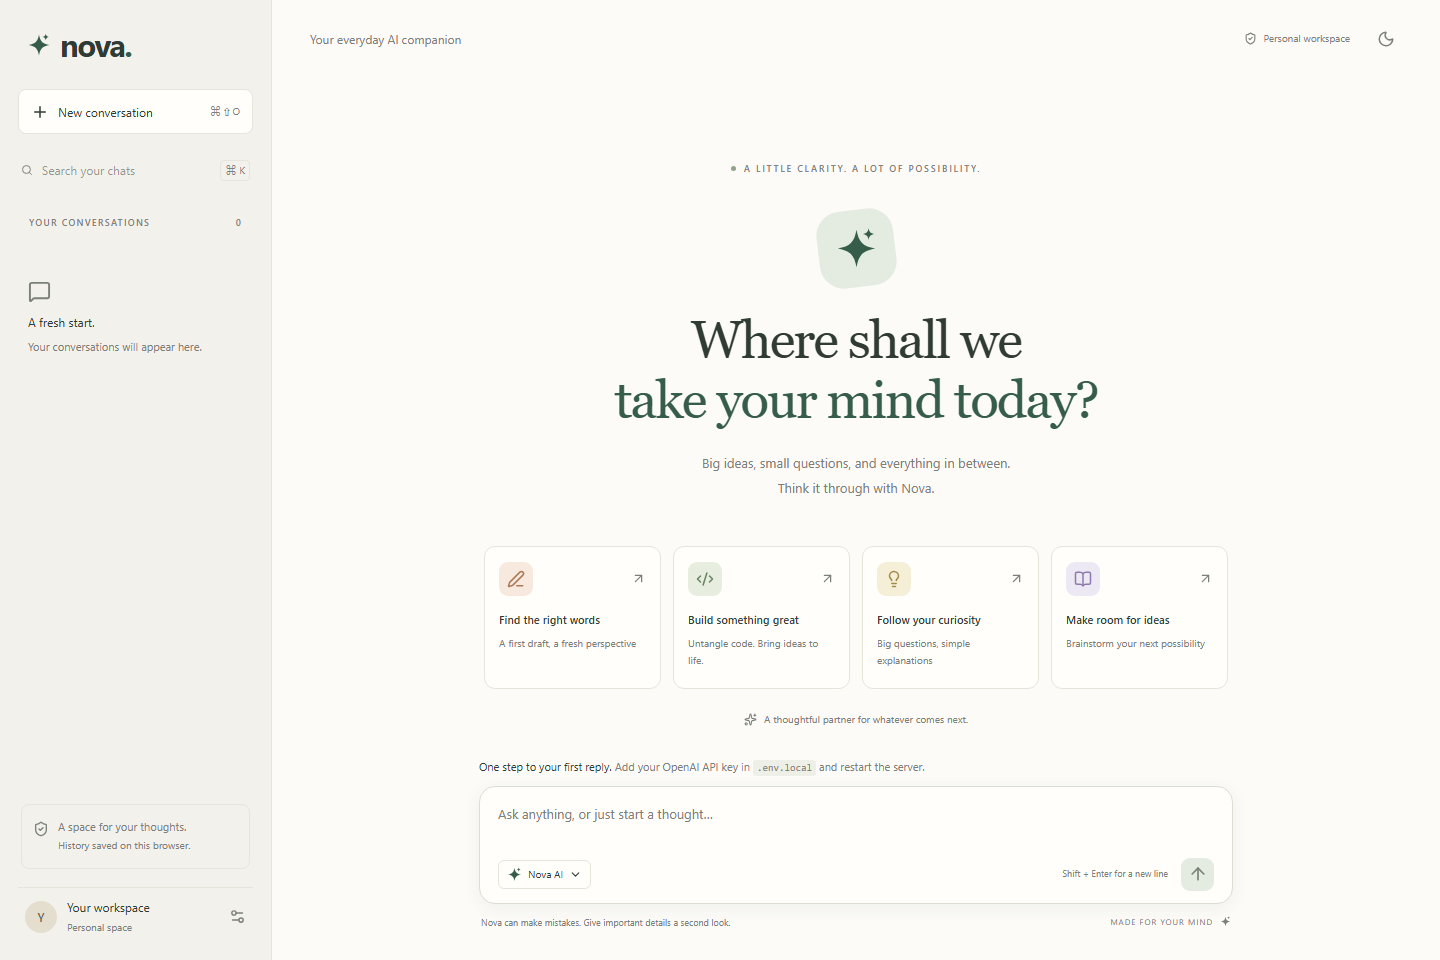
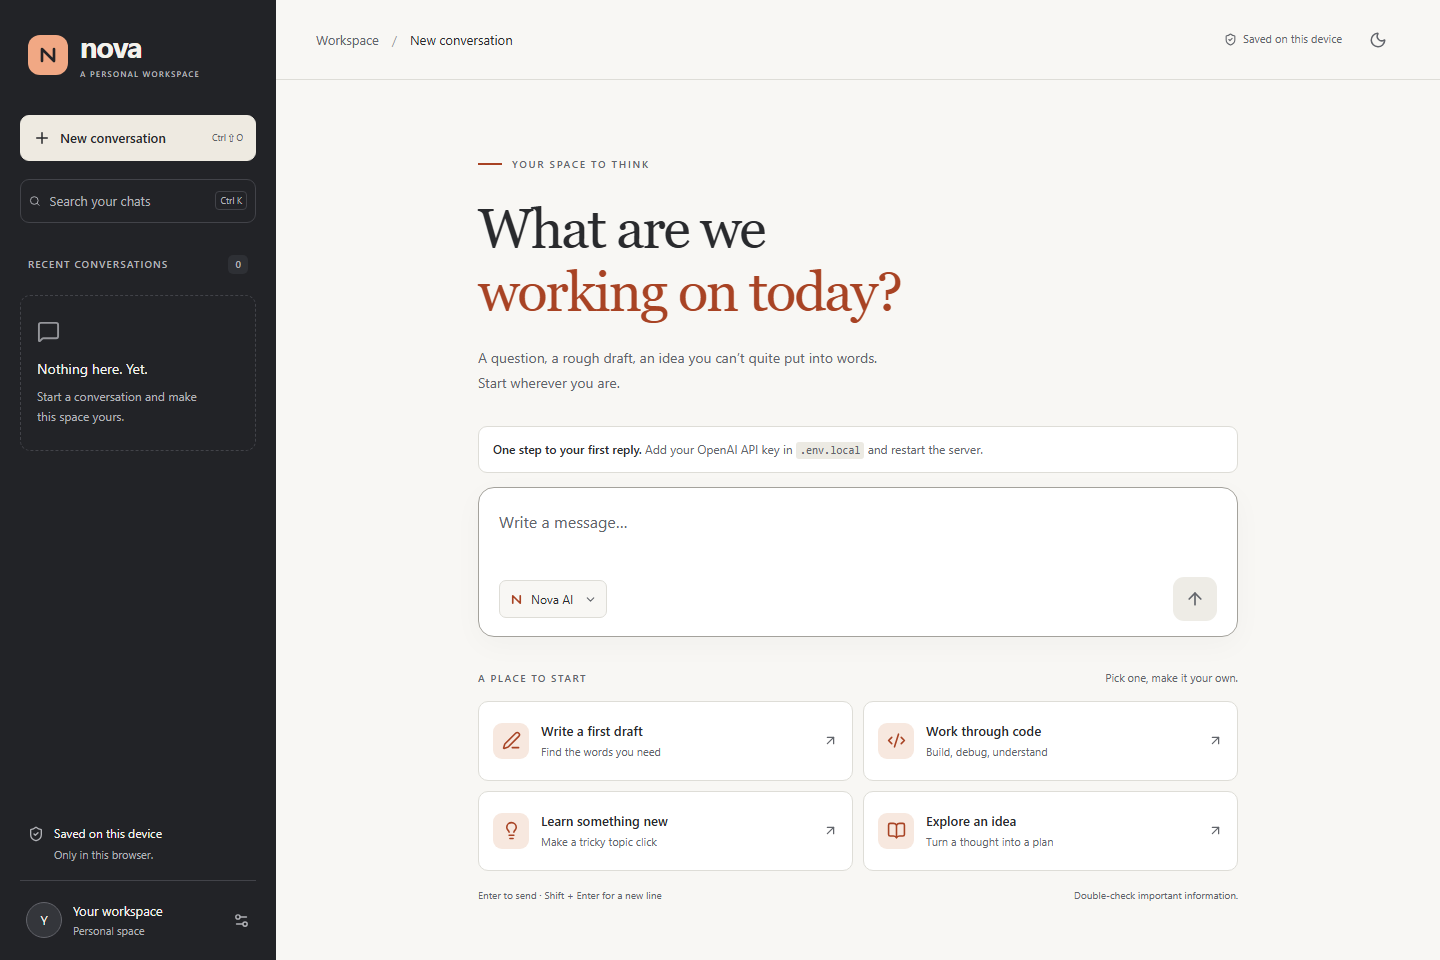
Update files in readme with redesigned previews

diff --git a/README.md b/README.md
@@ -1,6 +1,6 @@
 # Nova AI
 
-A thoughtful AI chatbot built with **TypeScript, Next.js, React, and Tailwind CSS**. Nova combines a ChatGPT-style conversation layout with a warm cream-and-sage visual identity, real OpenAI streaming, and a private personal workspace.
+A personal chat workspace built with **TypeScript, Next.js, React, and Tailwind CSS**. Nova pairs a charcoal sidebar, warm paper surfaces, and terracotta accents with real OpenAI streaming, readable conversations, and a composer that comes first.
 
 ![Nova desktop interface](docs/nova-desktop.png)
 
@@ -49,6 +49,7 @@ Never commit `.env.local`, paste API keys into the chat, or expose keys with a `
 - Supports stop, retry, and regenerate; interrupted answers are excluded from follow-up context.
 - Saves up to 80 conversations in this browser, with search, rename, confirmed deletion, and Markdown export.
 - Includes responsive mobile navigation, light/dark themes, starter prompts, keyboard shortcuts, and reduced-motion support.
+- Provides a skip link, visible focus indicators, keyboard-contained dialogs and mobile navigation, screen-reader response status, and touch-friendly primary controls.
 - Keeps API credentials on the server and protects production access with a password and signed, expiring HTTP-only session cookies.
 - Handles provider errors, missing configuration, timeouts, unavailable storage, and rate limits.
 
@@ -91,7 +92,9 @@ npm run test:e2e          # Desktop and mobile Chromium tests
 npm audit
 ```
 
-Tests mock the provider boundary and do not require a real key or make paid API calls. Verify actual OpenAI connectivity manually with a configured key by sending a message and a follow-up, and stopping a streamed response. A configured key indicator means a key is present; it does not verify its validity or available quota.
+Tests mock the provider boundary and do not require a real key or make paid API calls. Browser tests include axe checks against applicable WCAG 2.2 A/AA rules in light/dark themes and dialogs, keyboard navigation, and reflow at 320 pixels. Automated checks are one part of accessibility verification, not a certification of complete WCAG conformance. See the [W3C accessibility reference](https://www.w3.org/WAI/WCAG22/quickref/).
+
+Verify actual OpenAI connectivity manually with a configured key by sending a message and a follow-up, and stopping a streamed response. A configured key indicator means a key is present; it does not verify its validity or available quota.
 
 ## Deploy
 
